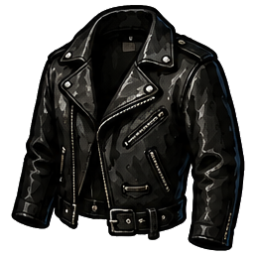
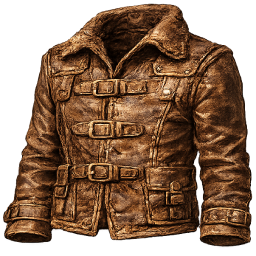
add items: leather clothes

diff --git a/js/data.js b/js/data.js
@@ -583,7 +583,6 @@ const itemsDatabase = {
     extraWeight: 4,
     durability: 30,
     maxDurability: 30,
-
     breakLoot: { itemId: "clothScrap", quantity: 3 }
   },
   cargoPants: {
@@ -675,21 +674,6 @@ const itemsDatabase = {
     durability: 35,
     maxDurability: 35,
     breakLoot: { itemId: "clothScrap", quantity: 3 }  
-  },
-  leatherJacket: {
-    id: "leatherJacket",
-    nameKey: "leatherJacket",
-    type: "clothing",
-    category: "clothing",
-    equipSlot: "vest",
-    imageSrc: "img/leatherJacket.png",
-    weight: 1.5,
-    maxStack: 1,
-    extraSlots: 3,
-    extraWeight: 3,
-    durability: 60,
-    maxDurability: 60,
-    breakLoot: { itemId: "leatherScrap", quantity: 4 }
   },
   fingerlessGloves: {
     id: "fingerlessGloves",
@@ -811,6 +795,111 @@ const itemsDatabase = {
     maxDurability: 10,
     breakLoot: { itemId: "plantFiber", quantity: 1 }
   },
+  barkSandals: {
+    id: "barkSandals",
+    nameKey: "barkSandals",
+    type: "clothing",
+    category: "clothing",
+    equipSlot: "feet",
+    imageSrc: "img/barkSandals.png",
+    weight: 0.3,
+    maxStack: 1,
+    extraSlots: 1,
+    extraWeight: 1,
+    durability: 12,
+    maxDurability: 12,
+    breakLoot: { itemId: "bark", quantity: 1 }
+  },
+  leatherCap: {
+    id: "leatherCap",
+    nameKey: "leatherCap",
+    type: "clothing",
+    category: "clothing",
+    equipSlot: "head",
+    imageSrc: "img/leatherCap.png",
+    weight: 0.5,
+    maxStack: 1,
+    extraSlots: 0,
+    extraWeight: 0,
+    durability: 40,
+    maxDurability: 40,
+    breakLoot: { itemId: "leatherScrap", quantity: 1 }
+  },
+  leatherJacket: {
+    id: "leatherJacket",
+    nameKey: "leatherJacket",
+    type: "clothing",
+    category: "clothing",
+    equipSlot: "vest",
+    imageSrc: "img/leatherJacket.png",
+    weight: 1.5,
+    maxStack: 1,
+    extraSlots: 3,
+    extraWeight: 3,
+    durability: 60,
+    maxDurability: 60,
+    breakLoot: { itemId: "leatherScrap", quantity: 4 }
+  },
+  leatherVest: {
+    id: "leatherVest",
+    nameKey: "leatherVest",
+    type: "clothing",
+    category: "clothing",
+    equipSlot: "torso",
+    imageSrc: "img/leatherVest.png",
+    weight: 1,
+    maxStack: 1,
+    extraSlots: 2,
+    extraWeight: 2,
+    durability: 50,
+    maxDurability: 50,
+    breakLoot: { itemId: "leatherScrap", quantity: 2 }
+  },
+  leatherShorts: {
+    id: "leatherShorts",
+    nameKey: "leatherShorts",
+    type: "clothing",
+    category: "clothing",
+    equipSlot: "legs",
+    imageSrc: "img/leatherShorts.png",
+    weight: 0.8,
+    maxStack: 1,
+    extraSlots: 1,
+    extraWeight: 1,
+    durability: 45,
+    maxDurability: 45,
+    breakLoot: { itemId: "leatherScrap", quantity: 2 }
+  },
+  leatherGloves: {
+    id: "leatherGloves",
+    nameKey: "leatherGloves",
+    type: "clothing",
+    category: "clothing",
+    equipSlot: "hands",
+    imageSrc: "img/leatherGloves.png",
+    weight: 0.4,
+    maxStack: 1,
+    extraSlots: 0,
+    extraWeight: 0,
+    durability: 40,
+    maxDurability: 40,
+    breakLoot: { itemId: "leatherScrap", quantity: 1 }
+  },
+  leatherBoots: {
+    id: "leatherBoots",
+    nameKey: "leatherBoots",
+    type: "clothing",
+    category: "clothing",
+    equipSlot: "feet",
+    imageSrc: "img/leatherBoots.png",
+    weight: 1,
+    maxStack: 1,
+    extraSlots: 0,
+    extraWeight: 1,
+    durability: 55,
+    maxDurability: 55,
+    breakLoot: { itemId: "leatherScrap", quantity: 2 }
+  },
   // Bags and Containers
   schoolBag: {
     id: "schoolBag",
@@ -871,6 +960,18 @@ const itemsDatabase = {
     maxStack: 1,
     extraSlots: 3,
     extraWeight: 2.5
+  },
+  leatherSatchel: {
+    id: "leatherSatchel",
+    nameKey: "leatherSatchel",
+    type: "bag",
+    category: "bag",
+    equipSlot: "bag",
+    imageSrc: "img/leatherSatchel.png",
+    weight: 0.5,
+    maxStack: 1,
+    extraSlots: 5,
+    extraWeight: 5
   },
   // Medical Items
   bandage: {
@@ -2565,16 +2666,6 @@ const recipesDatabase = {
     }
   },
   // Clothing Items
-  leatherPouch: {
-    id: "leatherPouch",
-    nameKey: "leatherPouch",
-    resultItemId: "leatherPouch",
-    resultQuantity: 1,
-    isPublic: false,
-    category: "clothing",
-    discoverByAll: ["leather", "leatherStrip"],
-    ingredients: { leather: 2, leatherStrip: 2 }
-  },
   grassSatchel: {
     id: "grassSatchel",
     nameKey: "grassSatchel",
@@ -2614,6 +2705,107 @@ const recipesDatabase = {
       dryGrass: 6,
       plantFiber: 3
     }
+  },
+  barkSandals: {
+    id: "barkSandals",
+    nameKey: "barkSandals",
+    resultItemId: "barkSandals",
+    resultQuantity: 1,
+    isPublic: false,
+    category: "clothing",
+    discoverByAll: ["bark"],
+    ingredients: {
+      bark: 2,
+      plantFiber: 4
+    }
+  },
+  leatherPouch: {
+    id: "leatherPouch",
+    nameKey: "leatherPouch",
+    resultItemId: "leatherPouch",
+    resultQuantity: 1,
+    isPublic: false,
+    category: "clothing",
+    discoverByAll: ["leather", "leatherStrip"],
+    ingredients: { leather: 2, leatherStrip: 2 },
+    requiredTools: { boneNeedle: 1 }
+  },
+  leatherSatchel: {
+    id: "leatherSatchel",
+    nameKey: "leatherSatchel",
+    resultItemId: "leatherSatchel",
+    resultQuantity: 1,
+    isPublic: false,
+    category: "clothing",
+    discoverByAll: ["leather", "leatherStrip"],
+    ingredients: { leather: 6, leatherStrip: 4 },
+    requiredTools: { boneNeedle: 1 }
+  },
+  leatherCap: {
+    id: "leatherCap",
+    nameKey: "leatherCap",
+    resultItemId: "leatherCap",
+    resultQuantity: 1,
+    isPublic: false,
+    category: "clothing",
+    discoverByAll: ["leather", "leatherStrip"],
+    ingredients: { leather: 2, leatherStrip: 1 },
+    requiredTools: { boneNeedle: 1 }
+  },
+  leatherVest: {
+    id: "leatherVest",
+    nameKey: "leatherVest",
+    resultItemId: "leatherVest",
+    resultQuantity: 1,
+    isPublic: false,
+    category: "clothing",
+    discoverByAll: ["leather", "leatherStrip"],
+    ingredients: { leather: 6, leatherStrip: 3 },
+    requiredTools: { boneNeedle: 1 }
+  },
+  leatherShorts: {
+    id: "leatherShorts",
+    nameKey: "leatherShorts",
+    resultItemId: "leatherShorts",
+    resultQuantity: 1,
+    isPublic: false,
+    category: "clothing",
+    discoverByAll: ["leather", "leatherStrip"],
+    ingredients: { leather: 4, leatherStrip: 3 },
+    requiredTools: { boneNeedle: 1 }
+  },
+  leatherGloves: {
+    id: "leatherGloves",
+    nameKey: "leatherGloves",
+    resultItemId: "leatherGloves",
+    resultQuantity: 1,
+    isPublic: false,
+    category: "clothing",
+    discoverByAll: ["leather", "leatherStrip"],
+    ingredients: { leather: 2, leatherStrip: 4 },
+    requiredTools: { boneNeedle: 1 }
+  },
+  leatherBoots: {
+    id: "leatherBoots",
+    nameKey: "leatherBoots",
+    resultItemId: "leatherBoots",
+    resultQuantity: 1,
+    isPublic: false,
+    category: "clothing",
+    discoverByAll: ["leather", "leatherStrip"],
+    ingredients: { leather: 4, leatherStrip: 2 },
+    requiredTools: { boneNeedle: 1 }
+  },
+  leatherJacket: {
+    id: "leatherJacket",
+    nameKey: "leatherJacket",
+    resultItemId: "leatherJacket",
+    resultQuantity: 1,
+    isPublic: false,
+    category: "clothing",
+    discoverByAll: ["leather", "leatherStrip"],
+    ingredients: { leather: 5, leatherStrip: 3 },
+    requiredTools: { boneNeedle: 1 }
   },
   // Cooking Recipes
   cookedFish: {

diff --git a/js/i18n.js b/js/i18n.js
@@ -340,7 +340,8 @@ const translations = {
     storageRegionLimit: "You cannot place any more crates in this region.",
     storageTooHeavy: "The crate cannot carry any more weight.",
     emptyStorageFirst: "Empty the crate before packing it.",
-    storageContainerPacked: "The crate was packed.",    
+    storageContainerPacked: "The crate was packed.", 
+    barkSandals: "Bark Sandals",   
   },
   //Türkçe
   tr: {
@@ -682,6 +683,7 @@ const translations = {
     storageTooHeavy: "Sandık daha fazla ağırlık taşıyamaz.",
     emptyStorageFirst: "Sandığı kaldırmadan önce içini boşalt.",
     storageContainerPacked: "Sandık kaldırıldı.",
+    barkSandals: "Kabuk Sandaletler",
   }
 };
 

diff --git a/readme.md b/readme.md
@@ -1,9 +1,6 @@
 1. Yapılacaklar
 trail treetiles kısmı tamamlanacak.
 
-Başlangıç bölgelerinde kullanılabilecek basit sandık tarzı bir şey yapılmalı. 6-8 slot verecek içerisine eşyalar konulacak ve haritanın herhangi bir yerine koyulabilecek. tent mantığı gibi çalışacak. stick grass plantfiber drygrass kullanılarak yapılabilecek basit bi sandık olacak.
-
-
 Mine System v1.
 - mineMap.js düzenleme. Map görsel. blockedTiles, resourceTiles ve encounterTiles data girişi.
 - OreVein sistemi ve toolGroup gereksinimi.
@@ -28,13 +25,6 @@ Class Sistemi v1
 - Her class kendine uygun şekilde bonuslar sağlayacak.
 
 2. Eklenecek Item Listesi
-barkSandals
-
-leatherCap
-leatherVest
-leatherWrap
-leatherGloves
-leatherBoots
 
 clothShirt
 clothPants
@@ -43,4 +33,3 @@ clothBag
 
 
 3. Görseli Olmayan Item Listesi
-wovenCrate